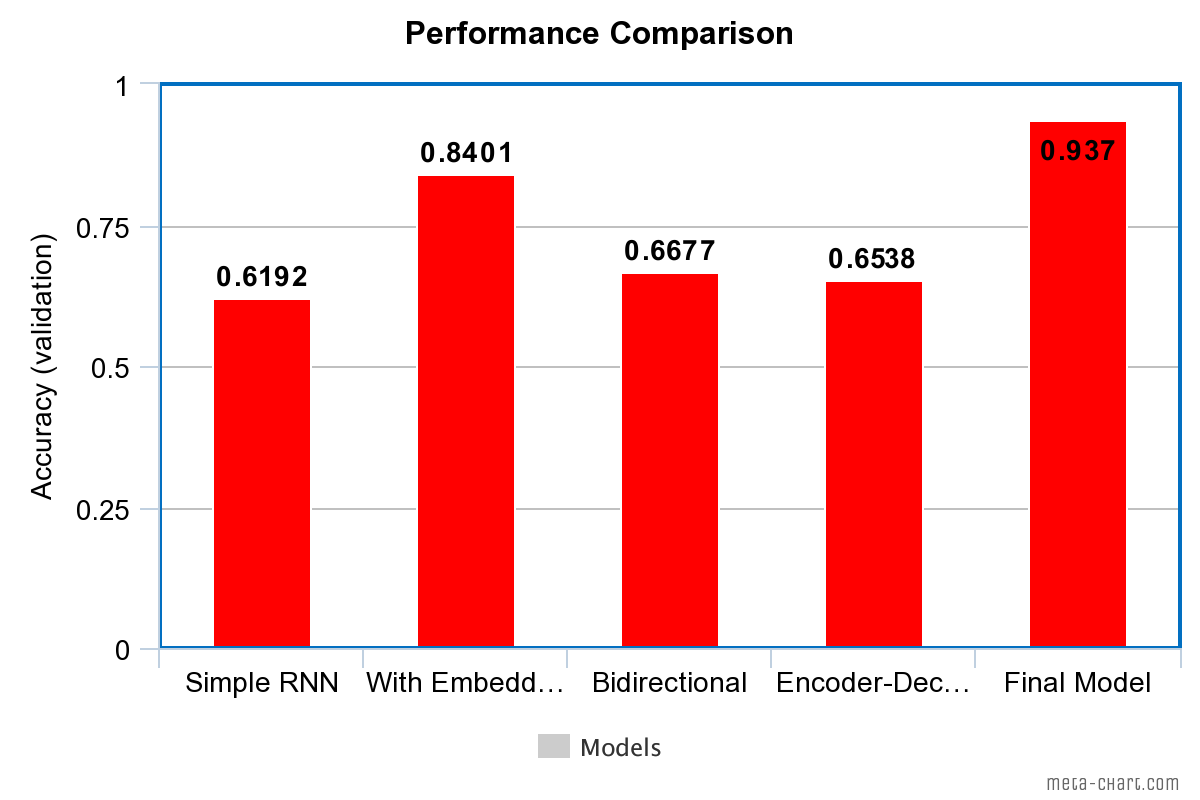
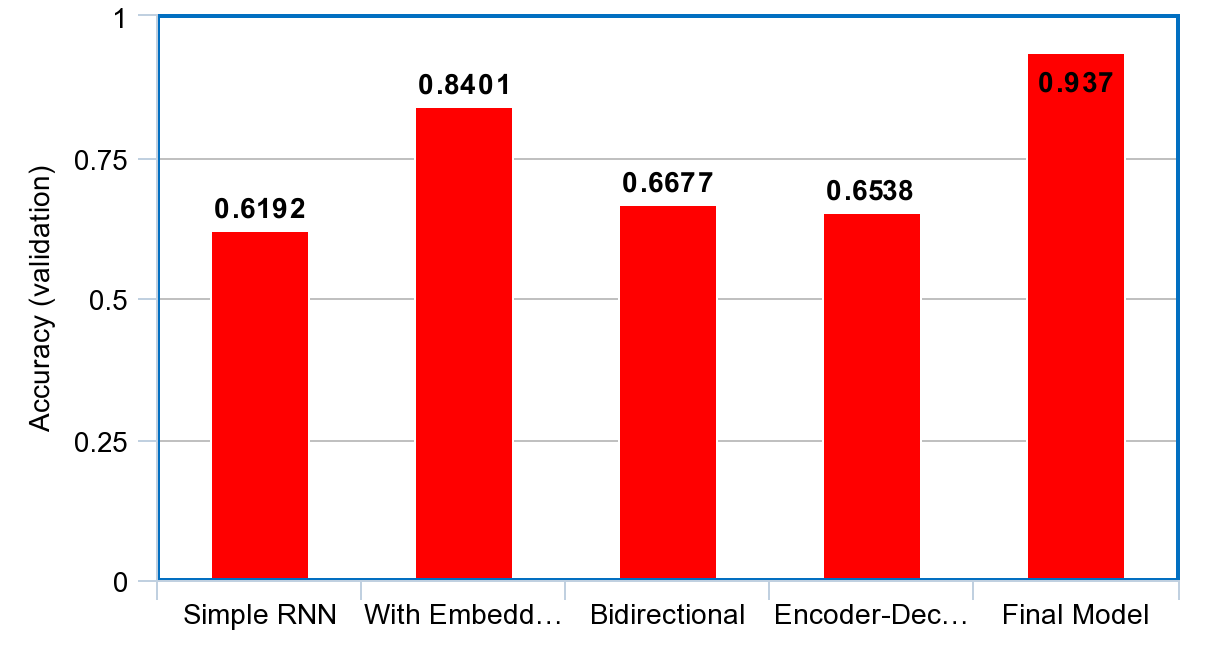
more readme

Changed region(s): [[0.0, 0.0, 0.9867, 0.9877], [0.8325, 0.9259, 0.9867, 0.9877]]

diff --git a/3_English_to_French/README.md b/3_English_to_French/README.md
@@ -4,9 +4,13 @@
 
 Built a deep neural network that functions as part of an end-to-end machine translation pipeline. The final model takes in English sentences and translates them into French. Although each model only takes <10 minutes to finish training, I did experiment with 5 models. Therefore, a GPU-enabled computing environment would be favored. This project was particularly enjoyable because I got to see the difference each breakthrough in data-based-approach for NLP made on the model performances. 
 
+---
+
 ## Data
 
 The dataset I used is a small subset of [WMT](https://www.statmt.org/wmt10/translation-task.html) (workshop on statistical machine translation) included in this directory. It has 1823250 english words (227 unique) and 1961295 french words (355 unique). As usual, I tokenized the texts, obtained the sequences, and padded them (post). 
+
+---
 
 ## Models
 
@@ -49,9 +53,11 @@ All performances measured after 10 epochs of training (validation set). Paramete
   </tr>
 </table>
 
+---
+
 ## Performance Comparison
 
-<p><img src="images/chart.png"></p>
+<p align="center"><img src="images/chart.png" height="70%" width="70%"></p>
 
 Word embedding alone boosted a simple GRU RNN's accuracy by ~36%. Then the addition of bidirectional and encoder-decoder model components further increased the accuracy by ~12%.
 
